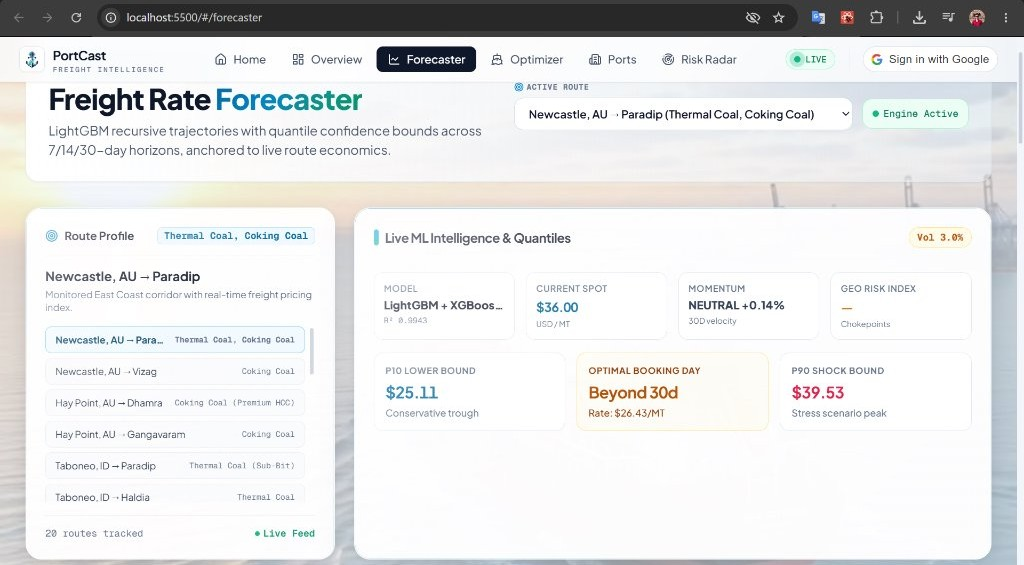
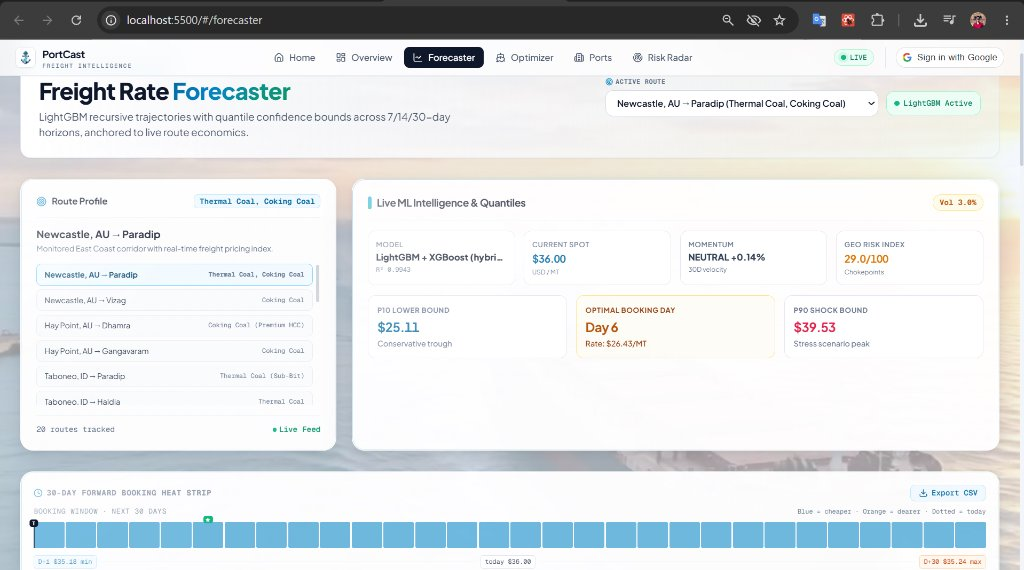
readme chnages

diff --git a/README.md b/README.md
@@ -38,8 +38,8 @@ Built around a **hybrid LightGBM + XGBoost ensemble** trained on Baltic indices,
   <img src="docs/screenshots/01_dashboard_overview.jpg" alt="PortCast Operations Overview" width="95%" />
 </p>
 
-### 2. Freight Forecaster — Live ML Intelligence & Quantiles
-*Ensemble rate forecast with P10/P90 statistical bounds, spot pricing, and optimal booking day detection.*
+### 2. Freight Forecaster — Live ML Intelligence, Quantiles & Booking Heat Strip
+*Ensemble rate forecast with P10/P90 statistical bounds, spot pricing, optimal booking day detection, and 30-day forward booking heat strip.*
 <p align="center">
   <img src="docs/screenshots/02_forecaster_quantiles.jpg" alt="Freight Forecaster ML Intelligence" width="95%" />
 </p>
